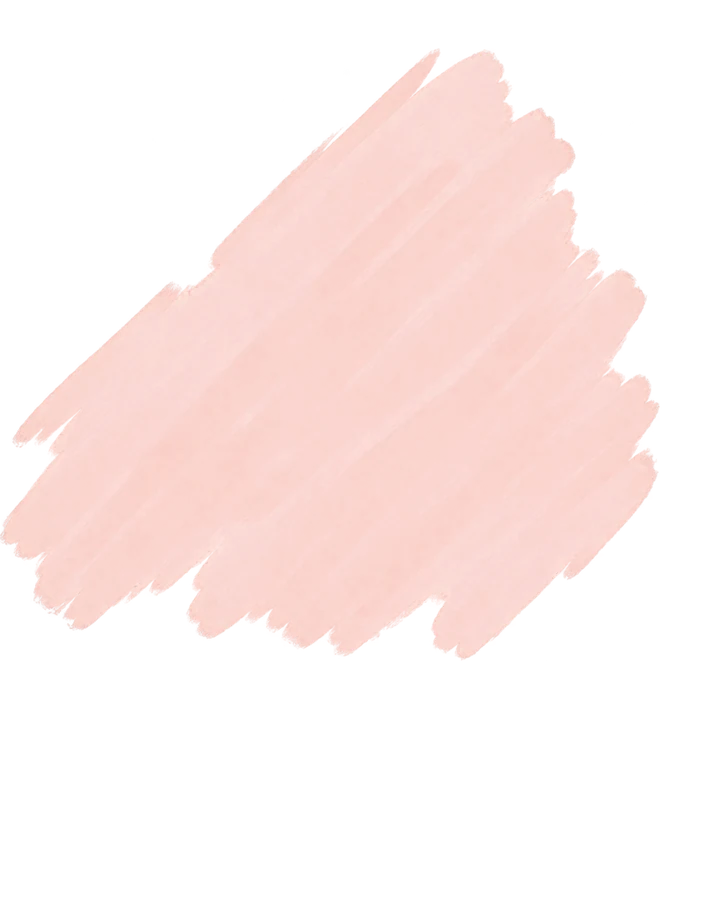
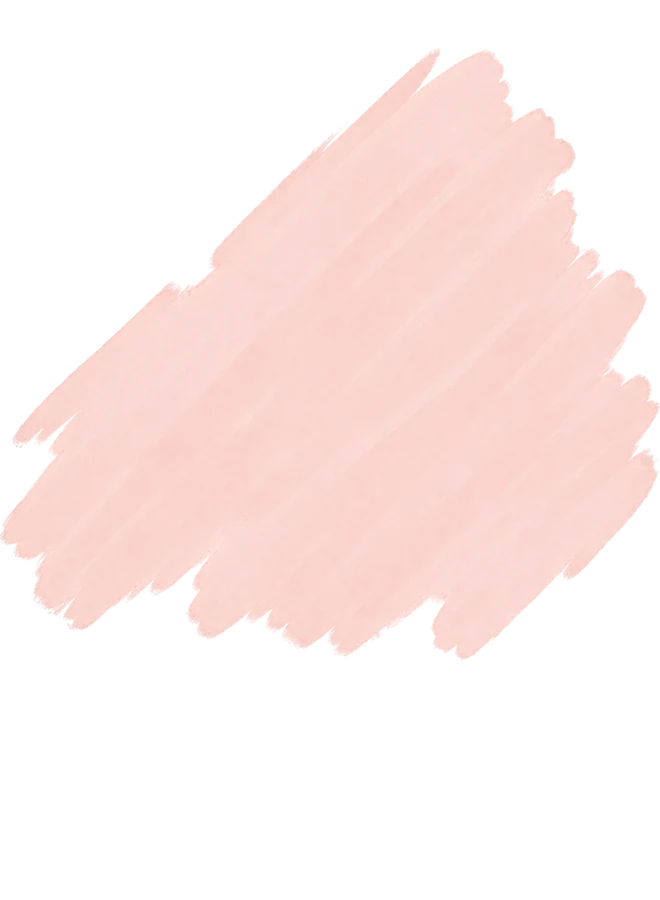
The line cuts the dashboard scene dead, and Leads is rebalanced
Dashboard: the box's bottom edge is the rule, and overflow-hidden on it is
what makes the drawing stop there. The sofa front and the man's trailing leg
carry on in the artwork and are simply cut, rather than hanging into the
search row. Nothing clips above - the window still runs off the top of the
page and is cut by the window edge.

Leads: she goes from 250 to 315, and the plant from four fifths of her seated
height down to just under two thirds. Rebuilt rather than scaled in CSS, so
the canvas is retrimmed around the smaller plant and none of the layers
carries dead space - the plant layer drops from 37K to 26K on its own.

One thing that had to move with it. The header reserves the figure's
footprint as right-padding, and it was only working that out from the aspect
when the art was wider than 0.75; below that it fell back to steps measured
against roughly 0.7. The rebuilt canvas is 0.734, which is wider than those
steps allow for, and the blurb would have run 78px under her. Told the aspect,
it now works the room out from it whatever the shape. Pages that pass no
aspect are untouched.

diff --git a/components/HomeScene.tsx b/components/HomeScene.tsx
@@ -54,14 +54,21 @@ export default function HomeScene({ className = "" }: { className?: string }) {
         :root[data-accent="blush"] .home-scene { background-image: url(/illustrations/home/blush.webp) }
         :root[data-accent="red"]   .home-scene { background-image: url(/illustrations/home/red.webp) }
       `}</style>
-      {/* Dropped so the DOG lands on the rule. The scene is deliberately
-          taller than the header: the window runs off the top and is cut by
-          the window edge, which is the whole point of this artwork. */}
-      <span
-        aria-hidden
-        className={`home-scene absolute left-0 right-0 block h-full ${className}`}
-        style={{ top: `${BELOW_RULE * 100}%` }}
-      />
+      {/* Clipped AT the rule.
+          The box's bottom edge is the line, and overflow-hidden is what makes
+          the drawing stop dead there: the sofa front and the man's trailing
+          leg carry on in the artwork and are simply cut, rather than hanging
+          into the search row. Above, nothing clips - the window runs off the
+          top of the page and is cut by the window edge instead.
+
+          Inside it the scene is dropped so the DOG lands on the line, since
+          he is lying on the sill and that is what the drawing rests on. */}
+      <span aria-hidden className="absolute inset-0 block overflow-hidden">
+        <span
+          className={`home-scene absolute left-0 right-0 block h-full ${className}`}
+          style={{ top: `${BELOW_RULE * 100}%` }}
+        />
+      </span>
     </>
   );
 }

diff --git a/components/PageHeader.tsx b/components/PageHeader.tsx
@@ -221,7 +221,10 @@ export default function PageHeader({
      same reason the seat clearance is: the numbers are computed, and Tailwind
      can only see class names it was built with. */
   const SCALES = [0.5, 0.68, 0.88, 1];
-  const wideArt = typeof illustrationAspect === "number" && illustrationAspect > 0.75;
+  /* Told the aspect, work the room out from it - narrow art as much as wide.
+     The fixed steps were measured against roughly 0.7, and the seated lady at
+     0.73 is wider than that: at the fixed 315 the blurb ran 78px under her. */
+  const wideArt = typeof illustrationAspect === "number";
   const artClass = wideArt ? `art-room-${Math.round(illustrationHeight)}-${Math.round(illustrationAspect * 1000)}` : "";
   /* flushRight pins the art to the very corner, so there is no inset to
      reserve. Getting this wrong reserves room that is not there and stops the

diff --git a/app/(os)/leads/page.tsx b/app/(os)/leads/page.tsx
@@ -308,11 +308,11 @@ export default function Leads() {
         /* Three layers, not one picture: the wash goes behind the rule, she
            sits on it, and the pot stands on it. See components/LeadsScene. */
         illustrationNode={<LeadsScene />}
-        illustrationHeight={250}
+        illustrationHeight={315}
         /* She is half as wide again as she is tall, where this header's fixed
            text reserve was measured against tall narrow line art. Given the
            aspect it works the room out rather than assuming it. */
-        illustrationAspect={0.7815}
+        illustrationAspect={0.7336}
         /* The underside of her thigh breaks from her legs at 0.670 of the
            artwork — measured off the file, not guessed — so that is where the
            rule goes under her. Her legs and the plant hang below it. */

diff --git a/components/LeadsScene.tsx b/components/LeadsScene.tsx
@@ -27,7 +27,7 @@
 const RULE = 0.6682;
 /** How far the watercolour reaches across it, so the line is put back over
  *  exactly that span and no further. */
-const WASH = { from: 0, to: 0.9387 };
+const WASH = { from: 0, to: 1 };
 
 /* This box's bottom edge IS the rule, so everything is pushed down by
    whatever sits above the line. One offset, because one canvas. */
